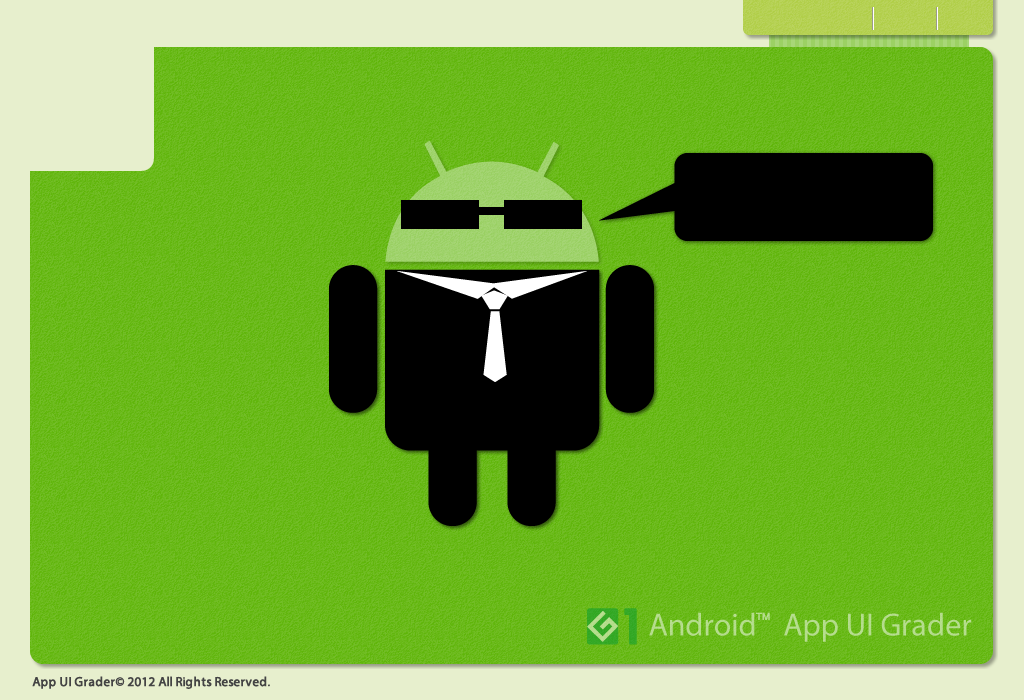
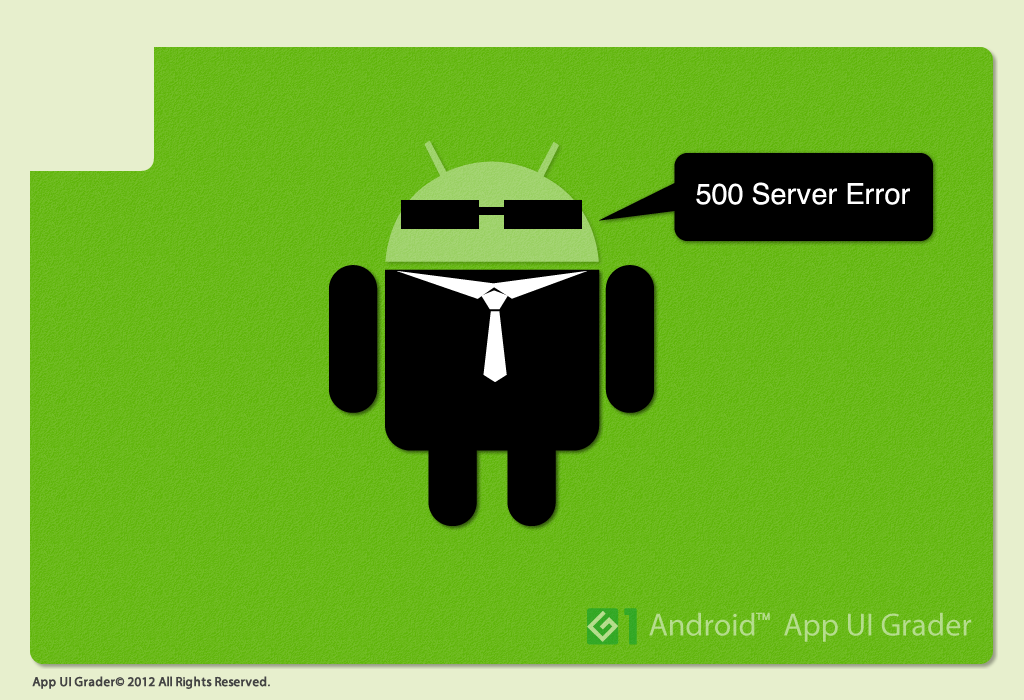
add the admin help page, and update with admin help page.

Changed region(s): [[0.7188, 0.0, 1.0, 0.09], [0.6562, 0.24, 0.9062, 0.3]]

diff --git a/DatabaseOperation/web/css/helpadmin.less b/DatabaseOperation/web/css/helpadmin.less
@@ -1,0 +1,52 @@
+@import "retina.less";
+html{
+  			background-color:#e7efcd;
+  			}
+  			
+  			.mainFrame{
+  			   
+  			     .at2x('helpadmin.png',1024,700);
+
+                background-position:center;
+                background-size:cover;
+                background-repeat:no-repeat; 
+                background-color:transparent;	
+                width:1024px;
+                height:700px;
+                margin: 0px auto 0px auto;
+                margin-top:-10px;
+  			
+  			}
+  			
+  			.panel{
+  			
+  			
+  			}
+  			
+  			.manual{
+  			
+  			}
+  			
+  			.video{
+  			
+  			}
+  			
+  			.back{
+  			position:relative;
+  			width:119px;
+  			height:119px;
+  			left:28px;
+  			top:45px;
+  			}
+  			
+  			.ui-dialog-titlebar.ui-widget-header{
+			background-color: #A5C734;
+     	
+			}
+			
+			.ui-dialog.ui-widget-content {
+     		//background-color: transparent;
+     		box-shadow: none !important;
+     		border:none;
+     		 font-size: 100%;
+			}

diff --git a/DatabaseOperation/web/css/loginErr2.less b/DatabaseOperation/web/css/loginErr2.less
@@ -1,0 +1,29 @@
+@import "retina.less";
+html {
+	background-color: #e7efcd;
+}
+
+.mainFrame {
+	
+	  .at2x('error.png',1024,700);
+	background-position: center;
+	background-size: cover;
+	background-repeat: no-repeat;
+	background-color: transparent;
+	width: 1024px;
+	height: 700px;
+	margin: 0px auto 0px auto;
+	   margin-top:-10px;
+}
+
+.back {
+	position: relative;
+	top: 45px;
+	left: 28px;
+}
+
+.status_bar {
+	position: relative;
+	top: 48px;
+	left: 680px;
+}
